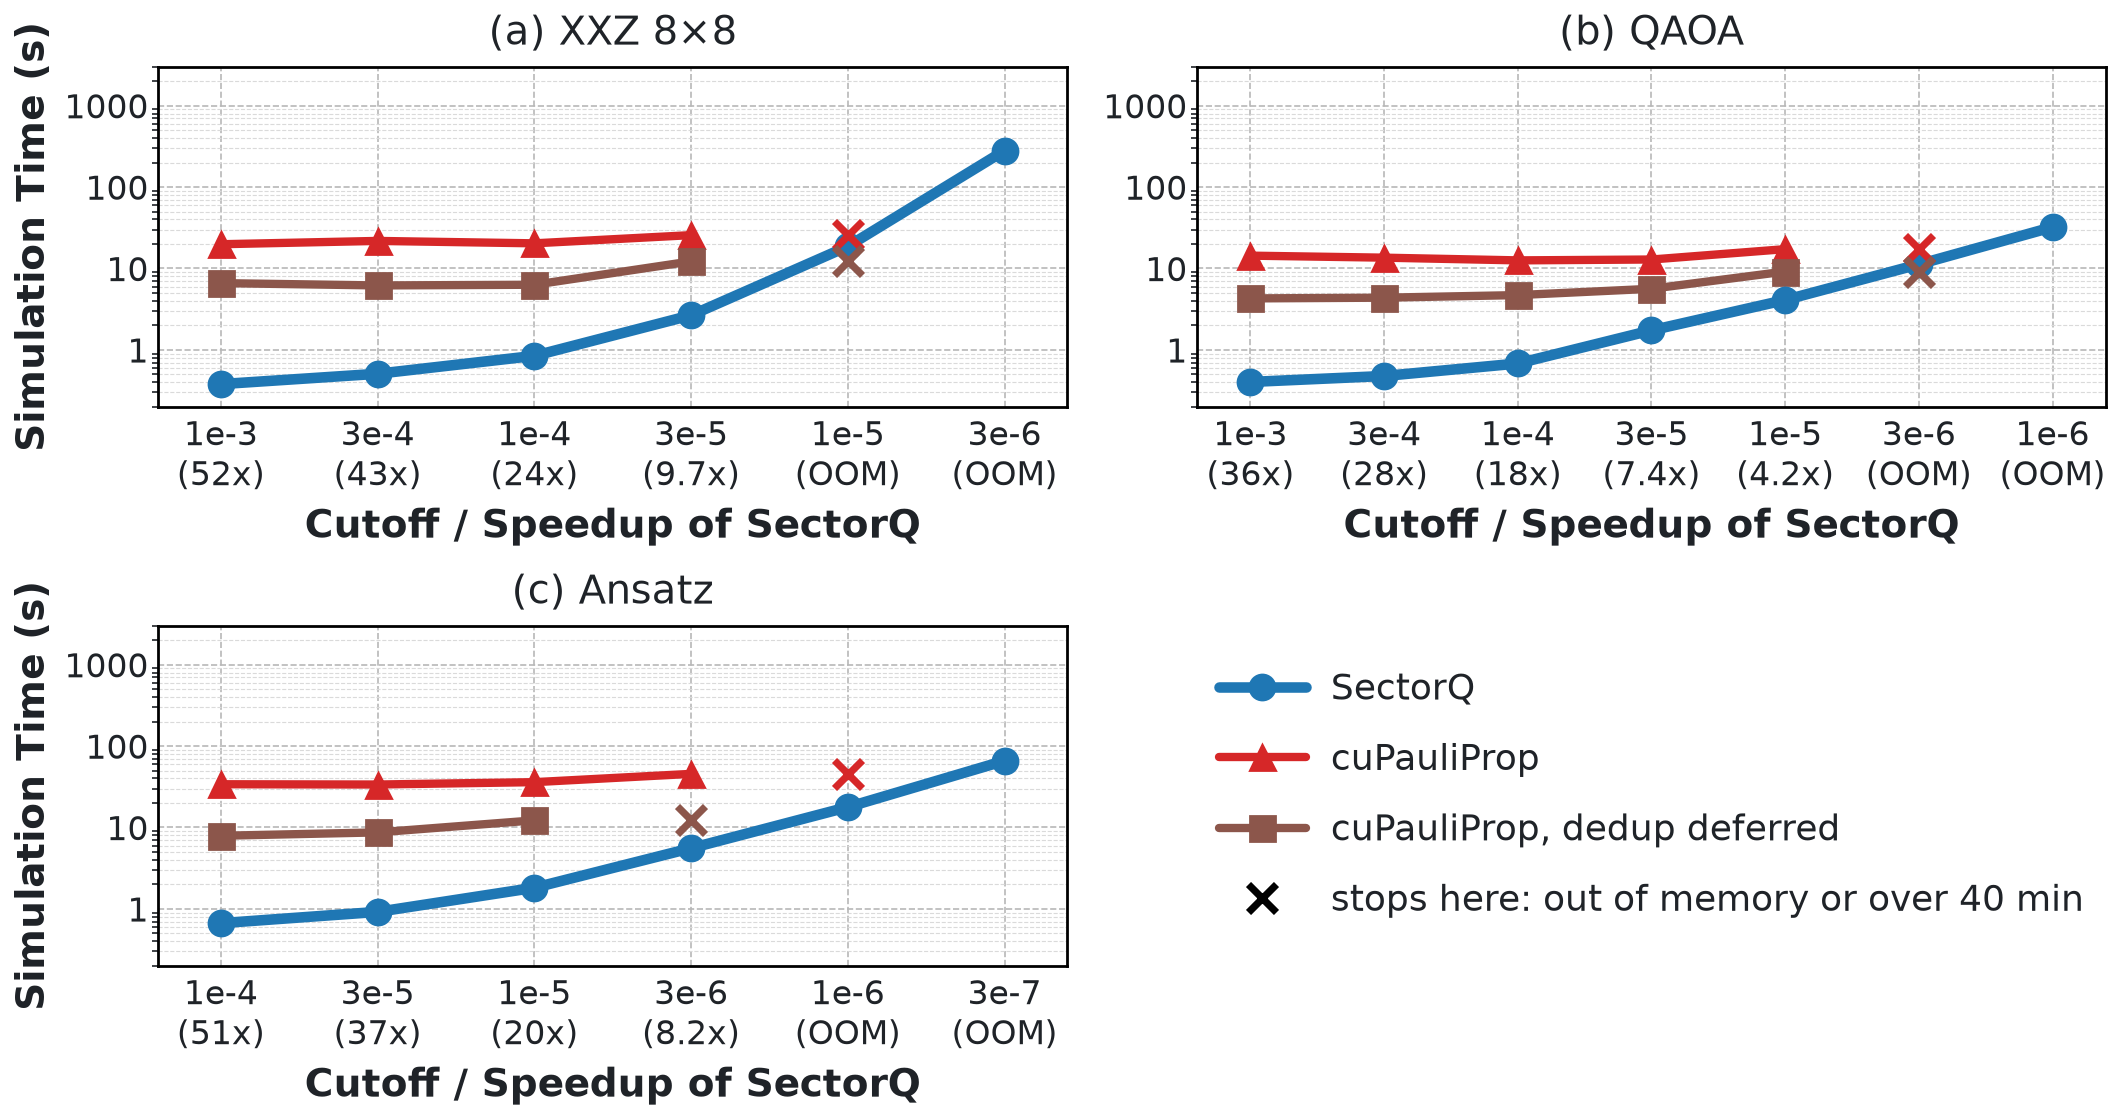
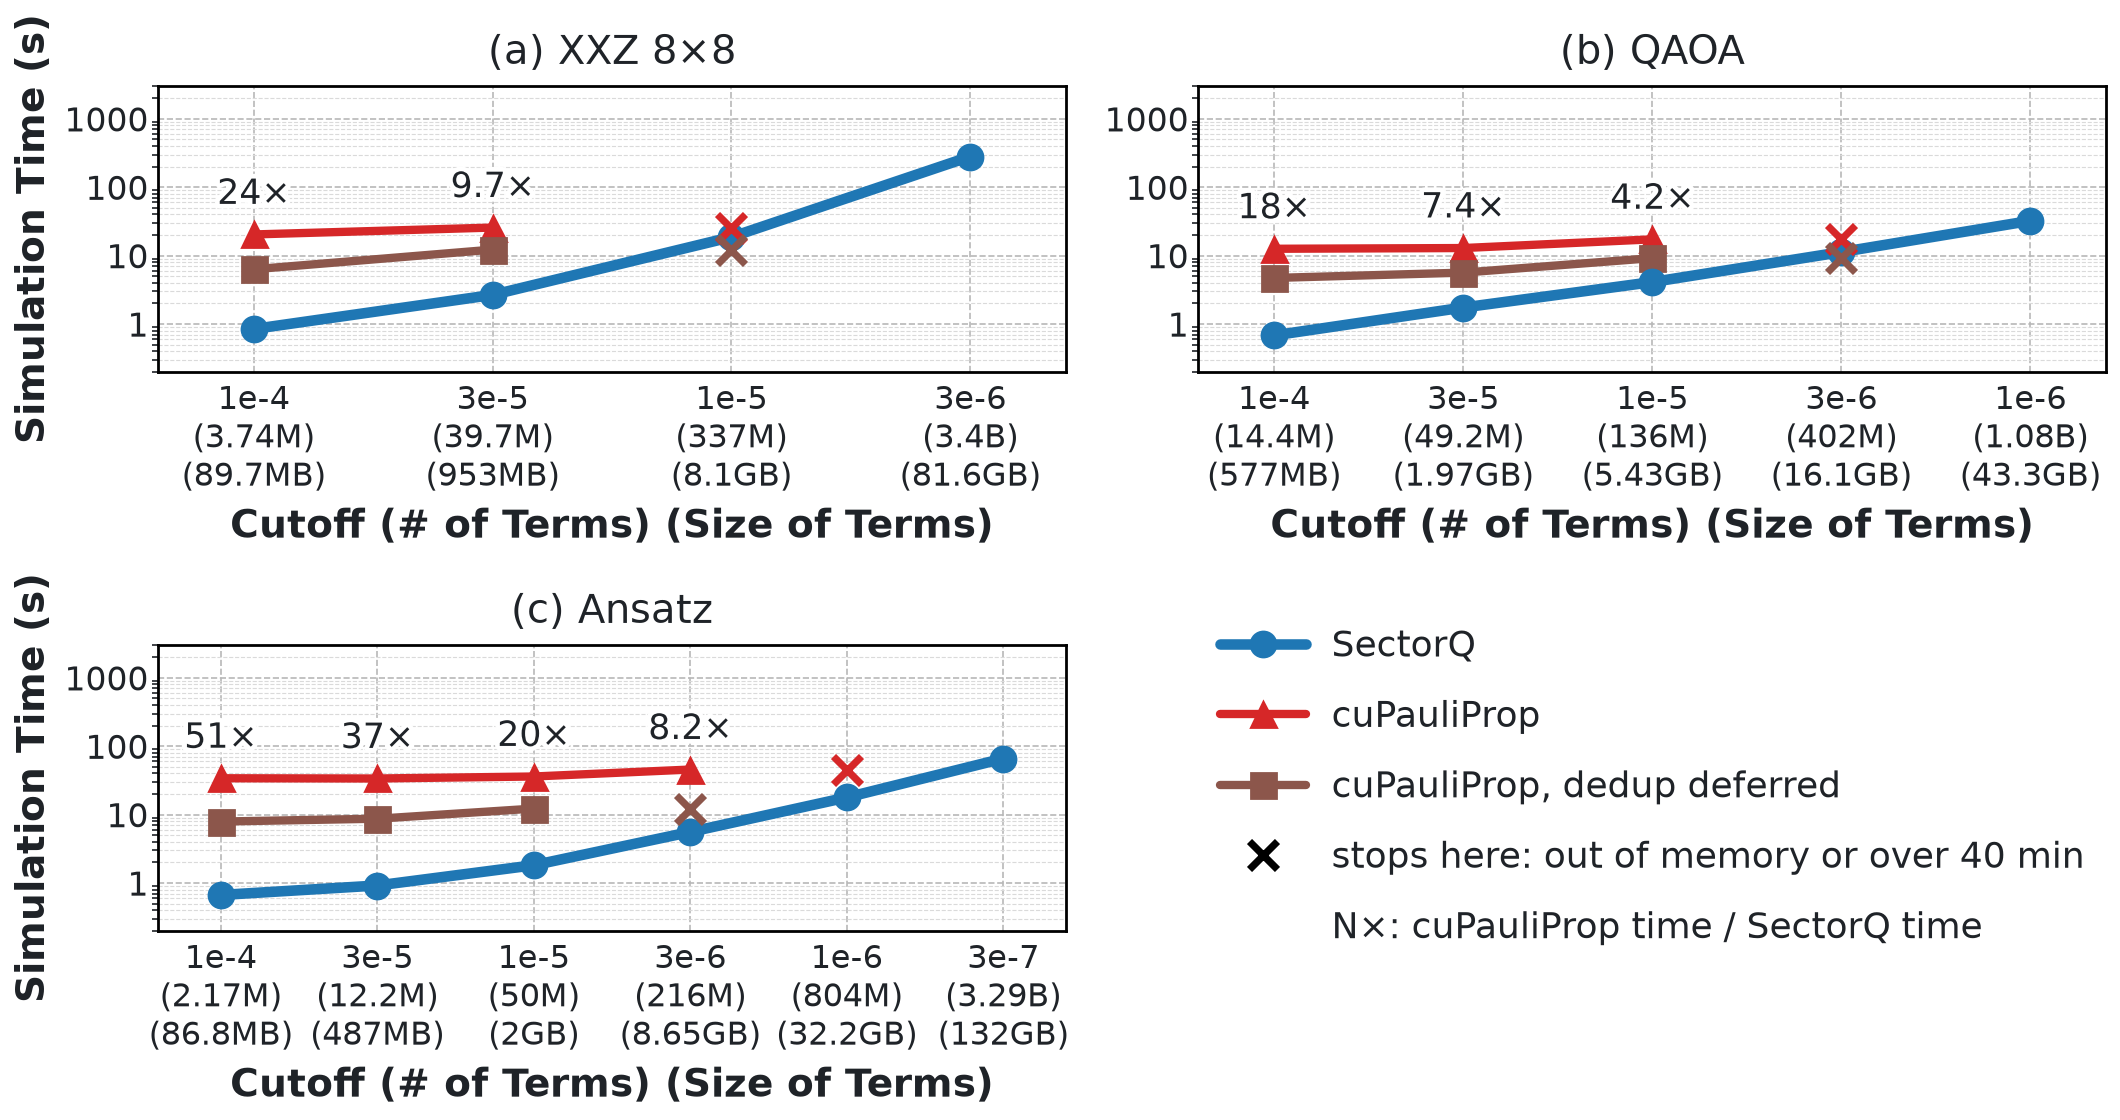
Deck circuits figure: terms and size under every cutoff, speedup above the baseline points; README 4.4: why host memory use is 1.8-2.1 times the terms
Figure: the slide panels start at cutoff 1e-4 and show, under each cutoff, the number of terms at window boundaries
and their size (as the scale-out figure does); how many times as long cuPauliProp's default mode takes as SectorQ is
printed above its points.
README: the runs that fill the host memory use 1.8-2.1 times the size of the terms at a window boundary, because
exchangeBuckets allocates the chunks for everything a node receives before it releases what it sends
(1 + (N-1)/N for N nodes); the 16-GPU limit is therefore about 575 GiB of terms, not 1,024 GiB.

Changed region(s): [[0.0, 0.0, 0.9962, 1.0], [0.5604, 0.5625, 0.9962, 0.8438]]

diff --git a/figures/make_deck_figures.py b/figures/make_deck_figures.py
@@ -506,13 +506,14 @@ def d_breakdown():
 
 
 def slide_ladder(G, c, cutoffs, g):
-    """The cutoffs of a panel on a slide, few enough for one line of tick labels: the steps 1e-k and 3e-k, the last
-    cutoff each implementation finished, and the last step of the ladder (where SectorQ stops)."""
+    """The cutoffs of a panel on a slide, few enough for one line of tick labels with the number of terms and their
+    size: from 1e-4 down, the steps 1e-k and 3e-k, the last cutoff each implementation finished, and the last step
+    of the ladder (where SectorQ stops)."""
     last = set()
     for kind in ("ours", "cupp", "defer"):
         done = [x for x, rec in zip(cutoffs, mf.sq_runs(G, kind, c, cutoffs, f"g{g}")) if mf.gok(rec)]
         last.update(done[-1:])
-    return [x for x in cutoffs if x[0] in "13" or x in last or x == cutoffs[-1]]
+    return [x for x in cutoffs if float(x) <= 1.0000001e-4 and (x[0] in "13" or x in last or x == cutoffs[-1])]
 
 
 def d_circuits(name, which, legend_cell, scale=1.0):
@@ -520,21 +521,34 @@ def d_circuits(name, which, legend_cell, scale=1.0):
     fig, axes = plt.subplots(2, 2, figsize=(W * scale, H * scale))
     flat = [a for row in axes for a in row]
     panels = flat[:len(which)]
-    mf.g_circuits(campaign(), axes=panels, which=which, keep=slide_ladder)
-    for ax in panels:
+    more = {}                                           # terms of the problems only more than 16 GPUs finished
+    for r in scaling_jobs():
+        if r["kind"] == "engine" and mf.ok(r) and r.get("boundary"):
+            more.setdefault({v: k for k, v in mf.BIG_NAME.items()}.get(r["circuit"]), {})[r["opt"]["--coef"]] = r["boundary"]
+    rows = mf.g_circuits(campaign(), axes=panels, which=which, keep=slide_ladder, sizes=more)
+    for j, ax in enumerate(panels):
         if len(ax.get_xticks()) > 9:
             stagger(ax, 10.5)
         else:
             for t in ax.get_xticklabels():
-                t.set_fontsize(12)
+                t.set_fontsize(11.5)
         ax.tick_params(axis="y", labelsize=12)
+        ax.set_yticks([1, 10, 100, 1000])
+        # how many times as long cuPauliProp's default mode takes as SectorQ, printed above its point
+        ticks = [t.get_text().split("\n")[0] for t in ax.get_xticklabels()]
+        ours, cupp = dict(rows[3 * j][2]), dict(rows[3 * j + 1][2])
+        for x in ticks:
+            if x in ours and x in cupp:
+                value(ax, ticks.index(x), cupp[x], mf.times(cupp[x], ours[x]), dy=8, size=12.5)
+    note = (Line2D([0], [0], color="none"), "N×: cuPauliProp time / SectorQ time")
     if legend_cell:
-        cell_legend(flat[3], entries(fig, panels[0]), size=13)
+        cell_legend(flat[3], entries(fig, panels[0]) + [note], size=13)
         top = None
     else:
         for ax in axes[0]:                                  # four panels: the x label once per column
             ax.set_xlabel("")
-        top = strip(fig, [entries(fig, panels[0])], size=13) - 0.08 / (H * scale)
+        e = entries(fig, panels[0])
+        top = strip(fig, [e[:3] + [note], e[3:]], size=12.5) - 0.08 / (H * scale)
     fig.align_xlabels(axes[1])
     finish(fig, name, top, wgap=0.18)
 

diff --git a/figures/make_eval_figures.py b/figures/make_eval_figures.py
@@ -932,11 +932,13 @@ def g_strong(G, c="ki", cutoffs=("1e-4", "3e-5", "1e-5", "3e-6", "1e-6"), axes=N
     return rows
 
 
-def g_circuits(G, g=16, axes=None, which=None, keep=None):
+def g_circuits(G, g=16, axes=None, which=None, keep=None, sizes=None):
     """Seven circuits on 16 GPUs: SectorQ against cuPauliProp's two distributed modes, time against the problem size.
     Every cutoff of a panel has its tick; below it the speedup of SectorQ over cuPauliProp's distributed mode.
     With `axes` (panels of another figure, make_deck_figures.py) only the circuits `which` are drawn, one per panel;
-    `keep(G, circuit, cutoffs, g)` then chooses the cutoffs of a panel (a slide shows fewer steps than the README)."""
+    `keep(G, circuit, cutoffs, g)` then chooses the cutoffs of a panel (a slide shows fewer steps than the README).
+    `sizes` ({circuit: {cutoff: terms}} for the problems no run of campaign g finished, or {}): the tick labels give
+    the number of terms and their size instead of the speedup; the caller prints the speedups at the points."""
     fig, flat = None, axes
     if axes is None:
         fig, axes = plt.subplots(4, 2, figsize=(15.6, 15.4), gridspec_kw={"wspace": 0.14, "hspace": 0.5})
@@ -957,9 +959,10 @@ def g_circuits(G, g=16, axes=None, which=None, keep=None):
         for a_, b_ in zip(got["ours"], got["cupp"]):
             stopped = stopped or (b_ is not None and not gok(b_))
             extra.append("(" + times(b_["wall"], a_["wall"]).replace("×", "x") + ")" if gok(a_) and gok(b_) else ("(OOM)" if gok(a_) and stopped else ""))
-        sq_axes(ax, "Cutoff / Speedup of SectorQ", "Simulation Time (s)" if j % 2 == 0 else None, size=14)
+        sq_axes(ax, "Cutoff / Speedup of SectorQ" if sizes is None else "Cutoff (# of Terms) (Size of Terms)", "Simulation Time (s)" if j % 2 == 0 else None, size=14)
         ax.set_xticks(range(len(cutoffs)))
-        ax.set_xticklabels([f"{x}\n{e}" for x, e in zip(cutoffs, extra)], fontsize=11 if len(cutoffs) <= 8 else (9.4 if len(cutoffs) <= 12 else 8.6))
+        labels = [f"{x}\n{e}" for x, e in zip(cutoffs, extra)] if sizes is None else cut_ticks(G, c, cutoffs, more=sizes.get(c))
+        ax.set_xticklabels(labels, fontsize=11 if len(cutoffs) <= 8 else (9.4 if len(cutoffs) <= 12 else 8.6))
         ax.set_xlim(-0.4, len(cutoffs) - 0.6)
         ax.set_ylim(0.2, 3000)
         ax.set_title(f"({'abcdefg'[j]}) {name.replace(chr(10), ' ')}", fontsize=14.5, pad=8)

diff --git a/README.md b/README.md
@@ -1324,7 +1324,7 @@ kicked Ising cutoff 1e-6은 구간 경계에서 119억 항, 구간 안에서 최
 - **cuPauliProp은 kicked Ising cutoff 3e-6을 64 GPU와 128 GPU로도 끝내지 못한다.** 64 GPU에서는 938번째 연산에서 GPU당 9,522만 항으로, 128 GPU에서는 1,084번째 연산에서 GPU당 9,832만 항으로 메모리가 부족해진다. 256 GPU에서는 기본 모드가 이 문제를 78.4초에 끝낸다. SectorQ는 같은 문제를 64 GPU로 33.2초, 128 GPU로 18.9초, 256 GPU로 13.4초에 끝내고(256 GPU에서 기본 모드의 시간은 SectorQ의 5.9배이다) GPU 1장으로도 1,741초에 끝낸다.
 - **같은 큰 문제의 시간.** kicked Ising cutoff 1e-6(구간 경계에서 119억 항, 구간 안에서 최대 1,001억 항)은 16 GPU로 1,625초, 32 GPU로 586초, 64 GPU로 305초, 128 GPU로 188초, 256 GPU로 93.3초이다(sector 상한은 32 GPU와 64 GPU에서 1,024개, 128 GPU와 256 GPU에서 4,096개). 그 아래의 cutoff 7e-7은 32 / 64 / 128 / 256 GPU로 1,549 / 753 / 358 / 189초이고, 5e-7은 64 / 128 / 256 GPU로 1,704 / 812 / 355초이다. 이 두 문제에서는 GPU 수가 두 배가 될 때마다 시간이 1.9–2.3배 줄어든다.
 - **GPU를 늘리면 더 큰 문제까지 간다.** 16 GPU는 cutoff 1e-6(구간 경계의 항 119억)이 끝이고 7e-7에서 host memory가 부족하다. 32 GPU는 7e-7(233억 항, 구간 안에서 최대 2,023억 항)을 1,549초에 끝내고 5e-7에서 host memory가 부족하다. 64 GPU는 5e-7(443억 항, 구간 안에서 최대 3,943억 항)을 1,704초에, 128 GPU는 같은 문제를 812초에 끝낸다. 256 GPU는 3e-7(1,175억 항, 4.7 TB. 구간 안에서 최대 1조 919억 항)을 1,318초에 끝낸다. host memory가 찰 때까지 잰 16, 32, 64 GPU에서 끝낸 항 수는 119억, 233억, 443억으로, 노드가 두 배가 될 때마다 약 두 배가 된다. SectorQ가 담는 항 수를 host memory가 정하기 때문이다(3.4절).
-- **host memory의 사용량.** 16 GPU가 1,024 GiB 가운데 788 GiB(77%), 32 GPU가 2,048 GiB 가운데 1,725 GiB(84%), 64 GPU가 4,096 GiB 가운데 3,410 GiB(83%)를 썼다. 128 GPU의 cutoff 5e-7은 49%, 256 GPU의 3e-7은 54%를 쓴다. 128 GPU와 256 GPU에는 아직 여유가 있으며 그 아래 cutoff(3e-7, 2e-7)는 job이 대기 중이다. 같은 문제에서 노드가 늘면 host memory 사용량도 늘어난다(cutoff 3e-6: 1 노드 60 GiB, 64 노드 449 GiB). 덜 찬 chunk가 노드와 sector의 쌍마다 생기기 때문이다.
+- **host memory의 사용량.** 16 GPU가 1,024 GiB 가운데 788 GiB(77%), 32 GPU가 2,048 GiB 가운데 1,725 GiB(84%), 64 GPU가 4,096 GiB 가운데 3,410 GiB(83%)를 썼다. 128 GPU의 cutoff 5e-7은 49%, 256 GPU의 3e-7은 54%를 쓴다. 128 GPU와 256 GPU에는 아직 여유가 있으며 그 아래 cutoff(3e-7, 2e-7)는 job이 대기 중이다. 메모리를 채운 실행에서 쓴 host memory는 구간 경계의 항 크기의 1.8–2.1배이다(16 GPU: 항 442 GiB에 788 GiB, 32 GPU: 2.0배, 64 GPU: 2.1배). 교환에서 각 노드가 받을 chunk를 모두 잡아 둔 뒤에 보낸 chunk를 반납하므로(`exchangeBuckets`), 그 순간 자기 출력 전체와 받을 항을 함께 가지기 때문이다. 노드가 N개이면 1 + (N−1)/N배이고(4, 8, 16 노드에서 1.75, 1.88, 1.94배), 나머지는 덜 찬 chunk이다. 따라서 16 GPU의 한계는 host memory 1,024 GiB가 아니라 그 1.8분의 1인 약 575 GiB(항 약 154억 개)이며, cutoff 7e-7 실행은 경계 항이 148억 개가 된 직후에 메모리가 부족해졌다. 같은 문제에서 노드가 늘면 host memory 사용량도 늘어난다(cutoff 3e-6: 1 노드 60 GiB, 64 노드 449 GiB). 덜 찬 chunk가 노드와 sector의 쌍마다 생기기 때문이다.
 - **cuPauliProp은 GPU를 늘려도 닿는 범위가 조금만 늘어난다.** 기본 모드는 16 GPU와 32 GPU에서 cutoff 1e-5(1.6억 항), 64 GPU와 128 GPU에서 5e-6(5.8억 항), 256 GPU에서 3e-6(15억 항)이 끝이고 그 아래에서 메모리가 부족하다. dedup을 미룬 방식은 16–64 GPU에서 1e-5, 128 GPU와 256 GPU에서 5e-6이 끝이다. 256 GPU에서 SectorQ가 끝낸 항 수(1,175억)는 기본 모드(15억)의 78배이다(두 측정값으로 계산한 값). 16 GPU에서는 75배이다(119억 대 1.6억). 32 GPU에서는 146배(233억 대 1.6억), 64 GPU와 128 GPU에서는 76배(443억 대 5.8억)이다.
 - **기본 모드가 끝낸 가장 큰 문제에서도 SectorQ가 빠르다.** 32–256 GPU에서 GPU 수마다 기본 모드가 끝낸 가장 작은 cutoff를 고르면(위의 표), 기본 모드의 시간은 SectorQ의 5.8–25배이다. dedup을 미룬 방식은 열두 설정 가운데 셋에서 메모리가 부족하고, 나머지에서 SectorQ의 2.7–4.6배이다.
 - **값의 변화.** kicked Ising의 기대값은 cutoff 1e-6, 7e-7, 5e-7, 3e-7에서 0.3217, 0.3256, 0.3265, 0.3226이다. 1e-6 아래에서 값이 0.005 안에서 오르내리며 단조롭지 않다. 수렴했다고 할 수 없다(4.5절, 5절). 32–256 GPU의 값은 같은 cutoff에서 서로 같다.
